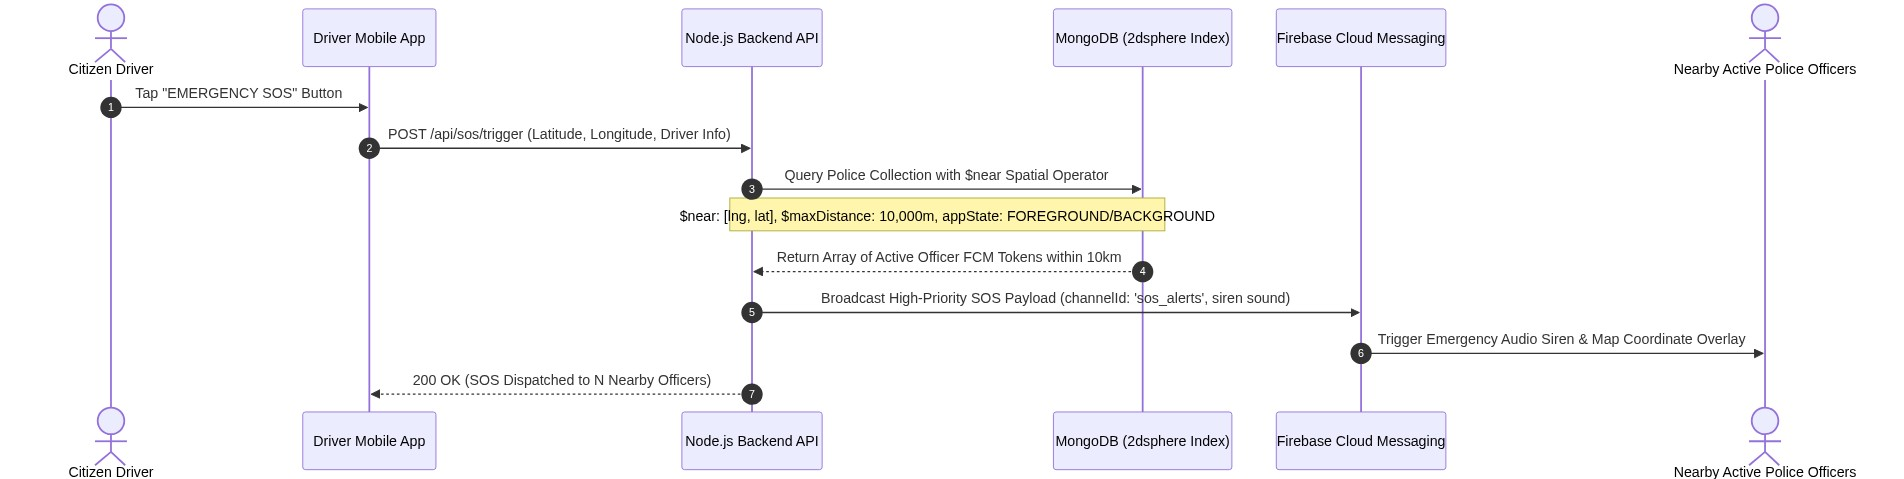
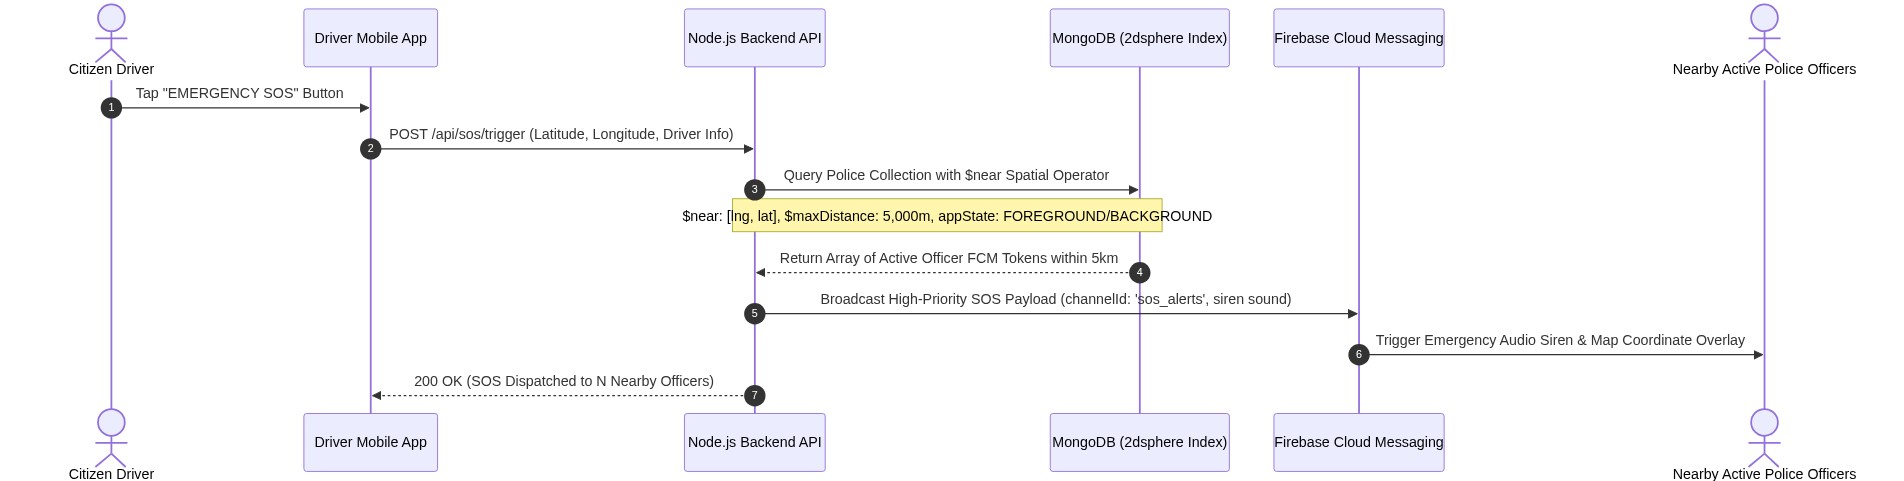
revert(sos): Keep SOS radius at 5km default with dynamic admin adjustments and update diagram to 5km

diff --git a/backend_api/generate_all_diagrams.js b/backend_api/generate_all_diagrams.js
@@ -432,8 +432,8 @@ const diagrams = [
     App->>API: POST /api/sos/trigger (Latitude, Longitude, Driver Info)
     
     API->>DB: Query Police Collection with $near Spatial Operator
-    Note over API,DB: $near: [lng, lat], $maxDistance: 10,000m, appState: FOREGROUND/BACKGROUND
-    DB-->>API: Return Array of Active Officer FCM Tokens within 10km
+    Note over API,DB: $near: [lng, lat], $maxDistance: 5,000m, appState: FOREGROUND/BACKGROUND
+    DB-->>API: Return Array of Active Officer FCM Tokens within 5km
 
     API->>FCM: Broadcast High-Priority SOS Payload (channelId: 'sos_alerts', siren sound)
     FCM->>Officers: Trigger Emergency Audio Siren & Map Coordinate Overlay
@@ -624,7 +624,7 @@ const diagrams = [
     PostSOSToBackend --> QueryNearbyOfficers: Execute MongoDB 2dsphere $near Spatial Query
     
     state QueryNearbyOfficers {
-        [*] --> FilterRadius: $maxDistance: 10,000m (10km)
+        [*] --> FilterRadius: $maxDistance: 5,000m (5km)
         FilterRadius --> FilterState: appState IN ('FOREGROUND', 'BACKGROUND')
     }
 

diff --git a/backend_api/controllers/sosController.js b/backend_api/controllers/sosController.js
@@ -8,7 +8,7 @@ const OfficerSession = require('../models/officerSessionModel');
 const { sendToMultiple } = require('../services/fcmService');
 
 // Constants
-const SOS_RADIUS_METERS = 10000; // Search radius: 10 kilometers (10,000m)
+const SOS_RADIUS_METERS = 5000; // Search radius: 5 kilometers
 
 /**
  * @route   POST /api/sos
@@ -66,7 +66,7 @@ const triggerSOS = async (req, res) => {
             type: 'Point',
             coordinates: [longitude, latitude], // Query center
           },
-          $maxDistance: SOS_RADIUS_METERS, // Limit to 10km (10,000m)
+          $maxDistance: SOS_RADIUS_METERS, // Limit to 5km
         },
       },
       isActive: true, // Only fetch officers who are currently online

diff --git a/backend_api/controllers/accidentController.js b/backend_api/controllers/accidentController.js
@@ -8,7 +8,7 @@ const sendEmail          = require('../utils/sendEmail');
 const { resolveLocation } = require('../utils/sriLankaGeoHelper');
 const { buildNearbyStationAlertHtml } = require('../utils/nearbyStationAlertEmail');
 
-const ACCIDENT_RADIUS_METERS = 10000; // 10 km (for officers)
+const ACCIDENT_RADIUS_METERS = 5000; // 5 km (for officers)
 // STATION_RADIUS_METERS is now fetched dynamically from SystemConfig
 
 const buildEmailHtml = ({

diff --git a/README.md b/README.md
@@ -683,7 +683,7 @@ sequenceDiagram
 
 </details>
 
-#### Sequence 4: Geospatial Emergency SOS Alert Broadcast (10km Spatial Query)
+#### Sequence 4: Geospatial Emergency SOS Alert Broadcast (5km Spatial Query)
 
 <div align="center" style="background:#ffffff; padding:24px; border-radius:12px; border:1px solid #e2e8f0; margin:16px 0; box-shadow:0 2px 8px rgba(0,0,0,0.05);">
   <img src="docs/diagrams/07_sequence_emergency_sos_dispatch.png" alt="Sequence 4: Geospatial Emergency SOS Broadcast" style="max-width:100%; height:auto; display:block; margin:0 auto; background:#ffffff;" />
@@ -712,8 +712,8 @@ sequenceDiagram
     App->>API: POST /api/sos/trigger (Latitude, Longitude, Driver Info)
     
     API->>DB: Query Police Collection with $near Spatial Operator
-    Note over API,DB: $near: [lng, lat], $maxDistance: 10,000m, appState: FOREGROUND/BACKGROUND
-    DB-->>API: Return Array of Active Officer FCM Tokens within 10km
+    Note over API,DB: $near: [lng, lat], $maxDistance: 5,000m, appState: FOREGROUND/BACKGROUND
+    DB-->>API: Return Array of Active Officer FCM Tokens within 5km
 
     API->>FCM: Broadcast High-Priority SOS Payload (channelId: 'sos_alerts', siren sound)
     FCM->>Officers: Trigger Emergency Audio Siren & Map Coordinate Overlay
